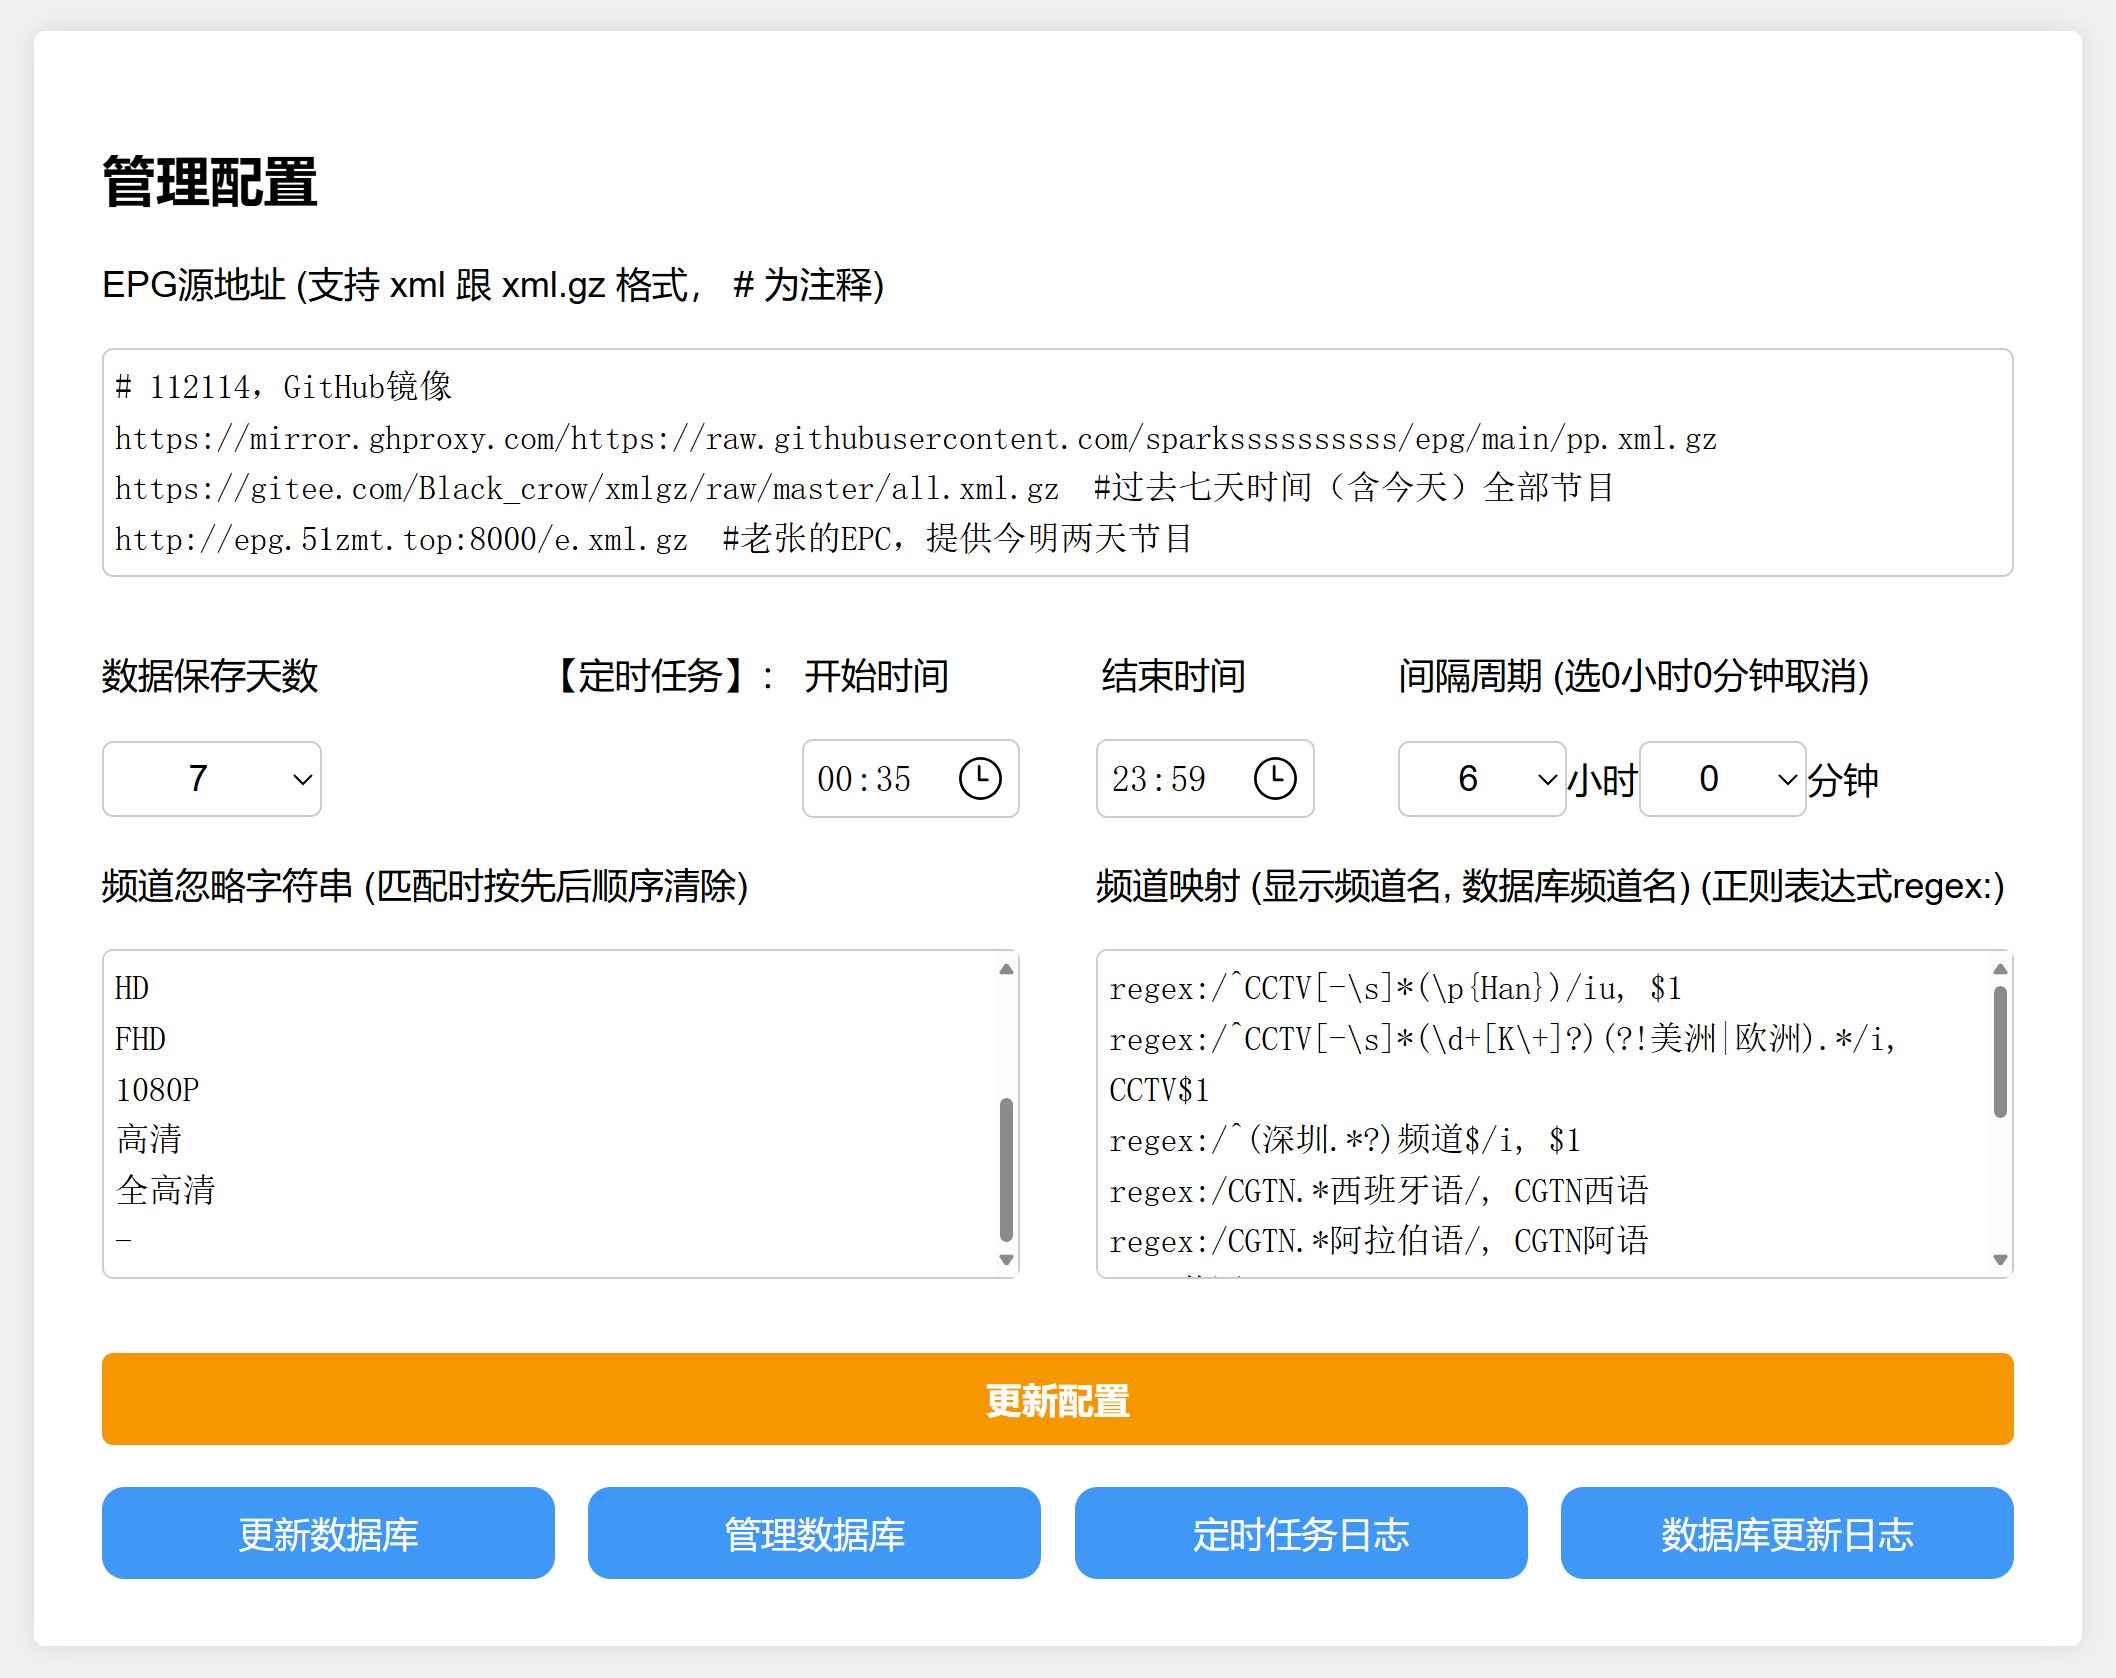
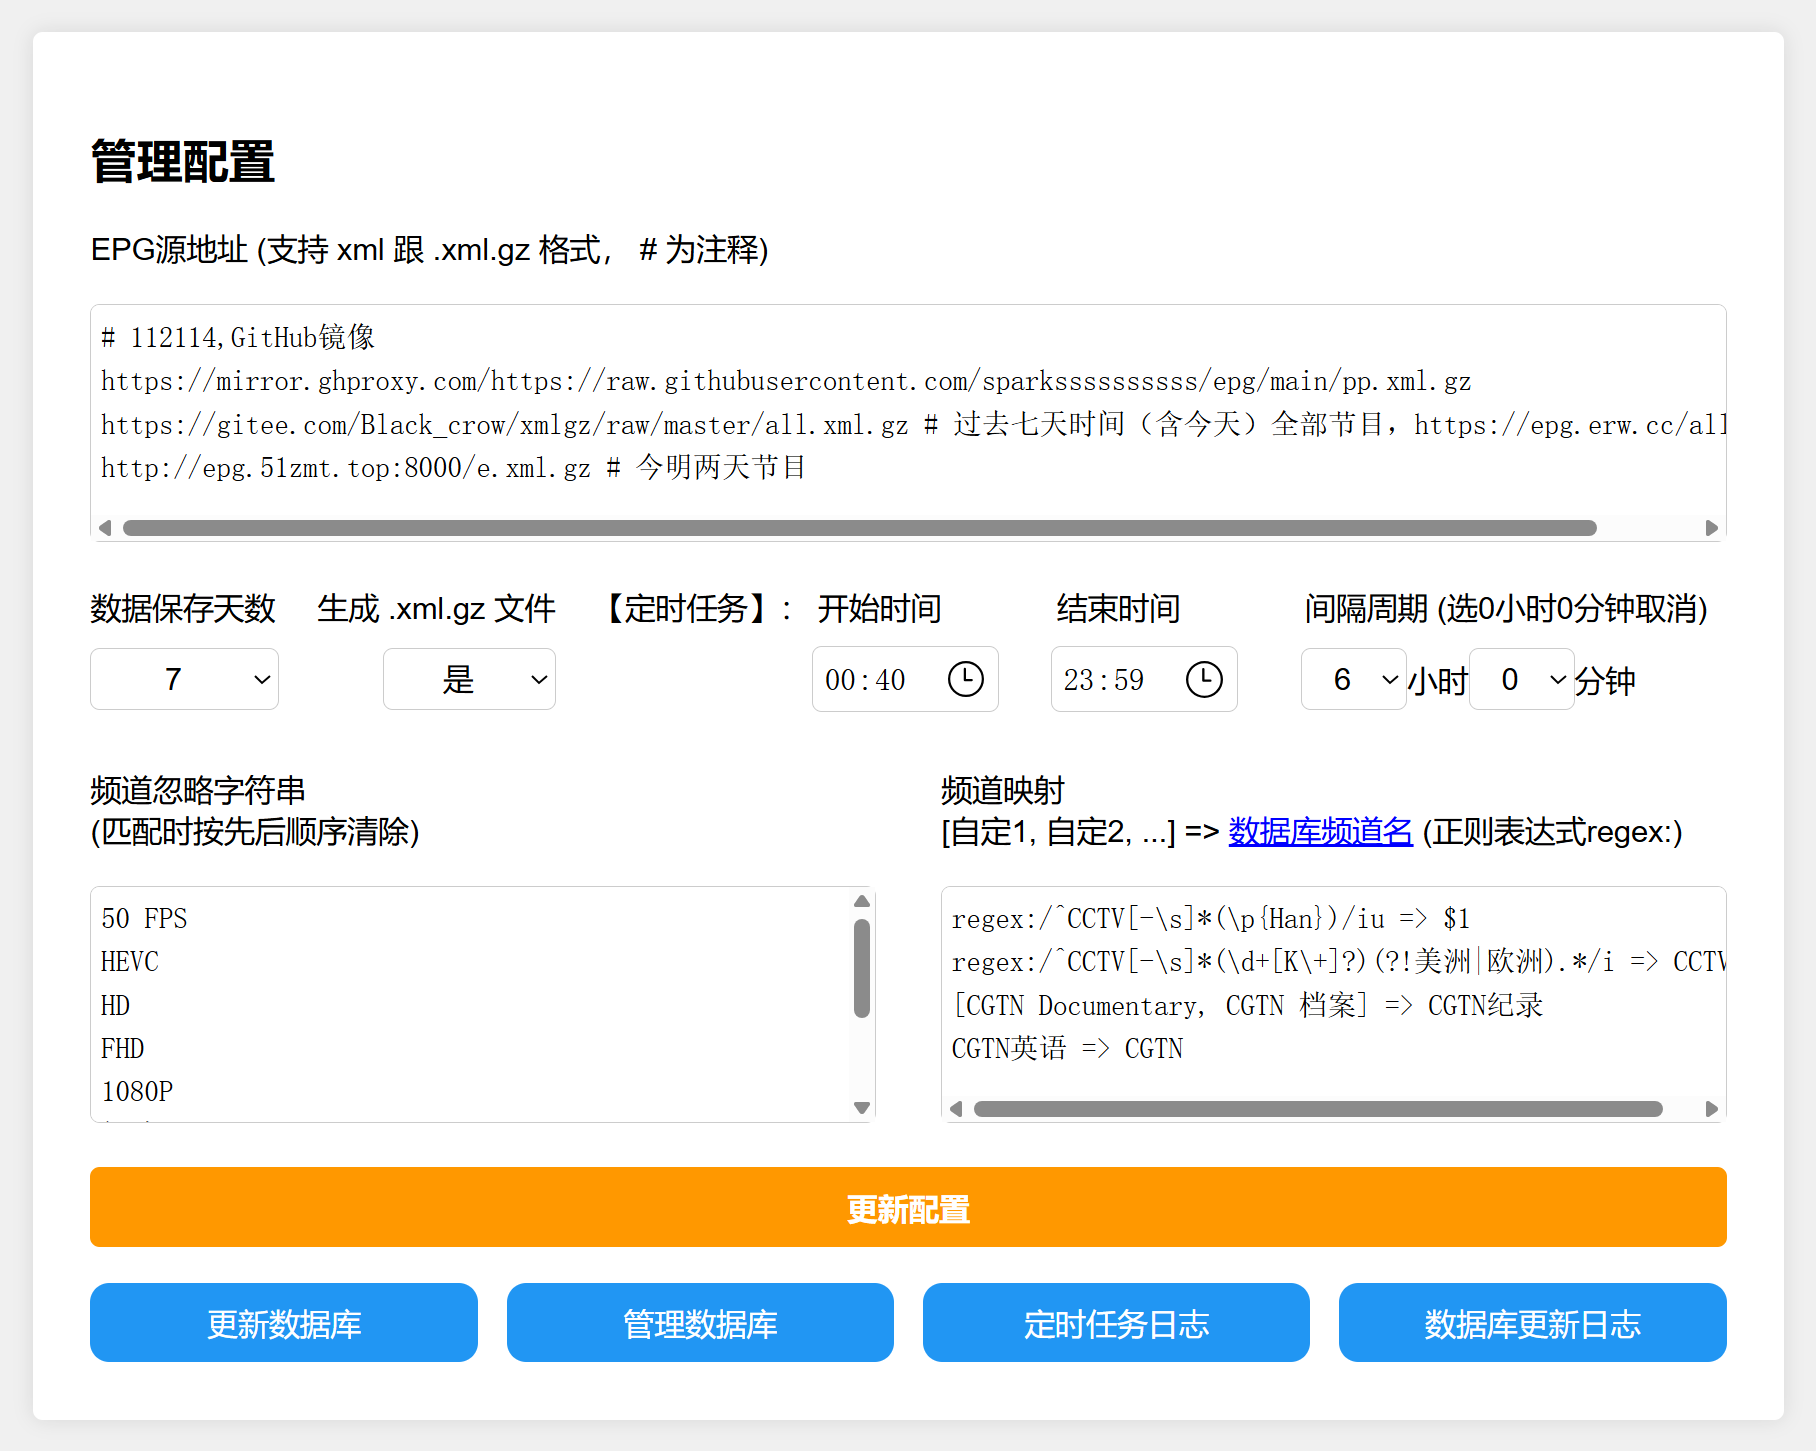
支持多对一频道映射，支持整合生成.xml.gz文件。
1. 自定义频道名支持 多对一映射
2. 支持整合 xmltv，并生成 .xml.gz 文件，降低硬盘占用
3. 支持查看、搜索数据库频道列表，方便填写映射
4. 修复 cron.php 在第三天失效的问题
5. 删除 epg_lovetv 表，超级直播数据直接从对应 DIYP 中生成，减少数据冗余
6. 优化更新当天数据的逻辑，避免更新时无法获取节目表

diff --git a/epg/update.php b/epg/update.php
@@ -55,7 +55,14 @@ try {
 // 删除过期数据和日志
 function deleteOldData($db, $keep_days, &$log_messages) {
     global $timeformat;
-    $threshold_date = date('Y-m-d', strtotime("-$keep_days days + 1 day"));
+
+    // 清除过期 xmltv 数据
+    $threshold_date = date('Y-m-d', strtotime("-$keep_days days + 1 day"));    
+    $stmt = $db->prepare("DELETE FROM epg_xml WHERE date < :threshold_date");
+    $stmt->bindValue(':threshold_date', $threshold_date, PDO::PARAM_STR);
+    $stmt->execute();
+
+    // 清除过期 DIYP、LoveTV 数据
     $stmt = $db->prepare("DELETE FROM epg_data WHERE date < :threshold_date");
     $stmt->bindValue(':threshold_date', $threshold_date, PDO::PARAM_STR);
     $stmt->execute();
@@ -72,25 +79,6 @@ function deleteOldData($db, $keep_days, &$log_messages) {
     $stmt->bindValue(':threshold_date', $threshold_date, PDO::PARAM_STR);
     $stmt->execute();
     $log_messages[] = date($timeformat) . " 【定时日志】 共 {$stmt->rowCount()} 条。";
-}
-
-// 全局变量，用于标记是否已经清除当天数据
-$cleared_today = false;
-
-// 清除当天数据，仅在第一次调用时执行
-function clearTodayData($date, $db) {
-    global $cleared_today;
-    if (!$cleared_today) {
-        $stmt = $db->prepare("DELETE FROM epg_data WHERE date = :date");
-        $stmt->bindValue(':date', $date, PDO::PARAM_STR);
-        $stmt->execute();
-
-        $stmt = $db->prepare("DELETE FROM epg_xml WHERE date = :date");
-        $stmt->bindValue(':date', $date, PDO::PARAM_STR);
-        $stmt->execute();
-
-        $cleared_today = true;
-    }
 }
 
 // 格式化时间函数
@@ -130,9 +118,6 @@ function downloadData($xml_url, $db, &$log_messages) {
             }
         }
 
-        // 清除当天数据
-        clearTodayData(date('Y-m-d'), $db);
-
         $db->beginTransaction();
         try {
             processXmlData($xml_data, date('Y-m-d'), $db);
@@ -149,8 +134,8 @@ function downloadData($xml_url, $db, &$log_messages) {
 
 // 处理 XML 数据并存入数据库
 function processXmlData($xml_data, $date, $db) {
-    // 插入数据到 epg_xml 表，如果有冲突则忽略
-    $stmt = $db->prepare('INSERT OR IGNORE INTO epg_xml (date, content) VALUES (:date, :content)');
+    // 插入数据到 epg_xml 表，如果有冲突则覆盖
+    $stmt = $db->prepare('INSERT OR REPLACE INTO epg_xml (date, content) VALUES (:date, :content)');
     $stmt->bindValue(':date', $date, PDO::PARAM_STR);
     $stmt->bindValue(':content', $xml_data, PDO::PARAM_STR);
     $stmt->execute();
@@ -224,7 +209,7 @@ function processXmlData($xml_data, $date, $db) {
         $channelId = (string)$programme['channel'];
         if (isset($channelsData[$channelId])) {
             if (!isset($channelsData[$channelId]['diyp_data'][$start['date']])) {
-                // 只有遍历到下一个新日期的时候才递增
+                // 只有遍历到下一个新节目或新日期时才递增
                 $programmeCount++;
                 if ($programmeCount % $batchSize == 0) {
                     insertDataToDatabase($channelsData, $db);
@@ -281,8 +266,16 @@ function insertDataToDatabase($channelsData, $db) {
                 ]
             ], JSON_UNESCAPED_UNICODE);
 
-            // 插入或更新 epg_data 表
-            $stmt = $db->prepare('INSERT OR IGNORE INTO epg_data (date, channel, epg_diyp, epg_lovetv) VALUES (:date, :channel, :epg_diyp, :epg_lovetv) ON CONFLICT(date, channel) DO UPDATE SET epg_diyp = :epg_diyp, epg_lovetv = :epg_lovetv');
+            if ($date == date('Y-m-d')) {
+                // 当天数据覆盖
+                $stmt = $db->prepare('INSERT OR REPLACE INTO epg_data (date, channel, epg_diyp, epg_lovetv)
+                                    VALUES (:date, :channel, :epg_diyp, :epg_lovetv)');
+            } else {
+                // 其他日期数据忽略
+                $stmt = $db->prepare('INSERT OR IGNORE INTO epg_data (date, channel, epg_diyp, epg_lovetv)
+                                    VALUES (:date, :channel, :epg_diyp, :epg_lovetv)');
+            }
+
             $stmt->bindValue(':date', $date, PDO::PARAM_STR);
             $stmt->bindValue(':channel', $channelName, PDO::PARAM_STR);
             $stmt->bindValue(':epg_diyp', $diypContent, PDO::PARAM_STR);
